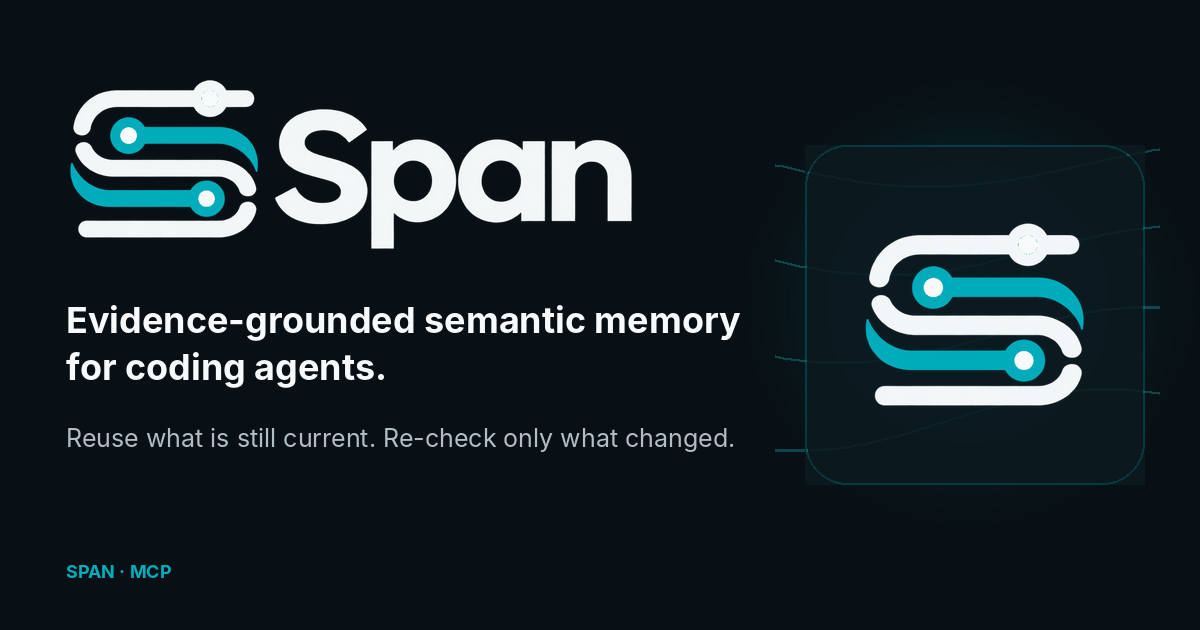
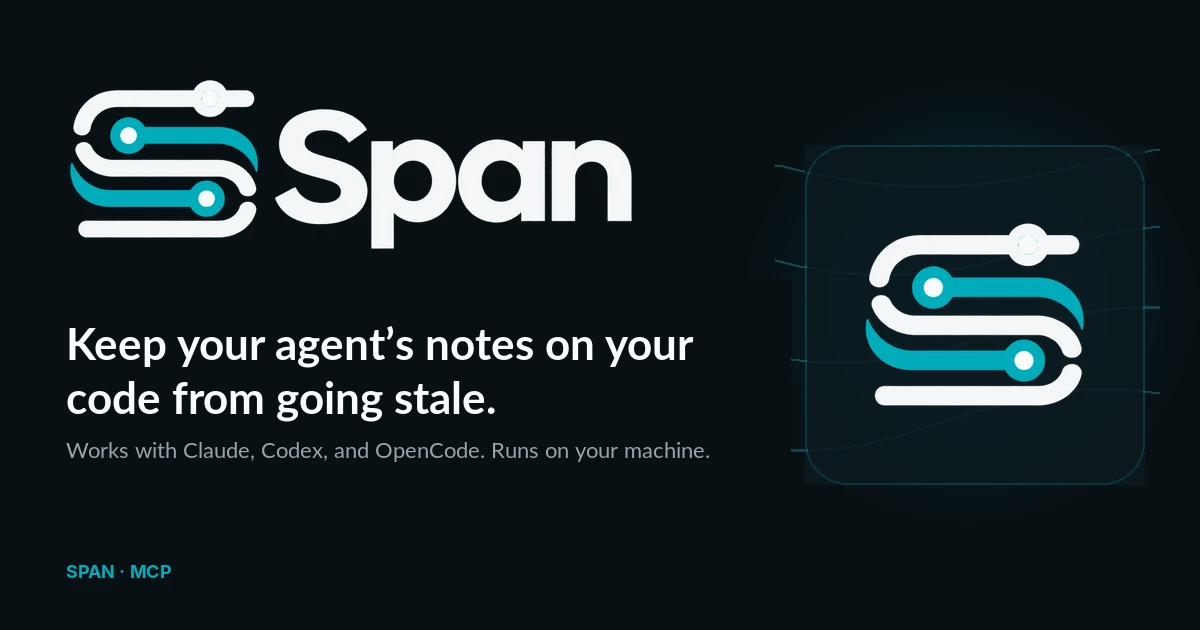
docs(span): rewrite marketing copy for the developer persona
- replace the hero with plain language and lead with the STALE example
- record the primary persona, acceptance sentence, and profile status
- add persona-recall and readability gates to the differentiation tests
- treat the public release as fact; link the repository and drop timing copy
- refresh the social card with the new headline

Changed region(s): [[0.0308, 0.4825, 0.6167, 0.7238], [0.0617, 0.9048, 0.1233, 0.9349], [0.1542, 0.3016, 0.185, 0.3317]]

diff --git a/tests/acceptance/test_addendum_d_acceptance.py b/tests/acceptance/test_addendum_d_acceptance.py
@@ -1396,8 +1396,8 @@ class DocsCheckTest(unittest.TestCase):
         # D-ACCEPT-07: §10-required elements present.
         readme = self._read("README.md")
         for required in (
-            "Re-check only what the change may have affected.",
-            "maintained codebase understanding",
+            "Keep your agent's notes on your code from going stale.",
+            "flags the parts a code change made unreliable",
             "Establish. Maintain. Expand.",
             "reconstruct",
             "withheld",

diff --git a/README.md b/README.md
@@ -1,8 +1,8 @@
 # Span
 
-**Re-check only what the change may have affected.**
+**Keep your agent's notes on your code from going stale.**
 
-Span is maintained codebase understanding for coding agents: conclusions kept together with the evidence behind them, reusable while that evidence stays current.
+Span stores what your agent learned about your repo, and flags the parts a code change made unreliable.
 
 **Establish. Maintain. Expand.** Establish understanding once. Maintain it as its supporting evidence changes. Expand it as the agent moves into new areas.
 
